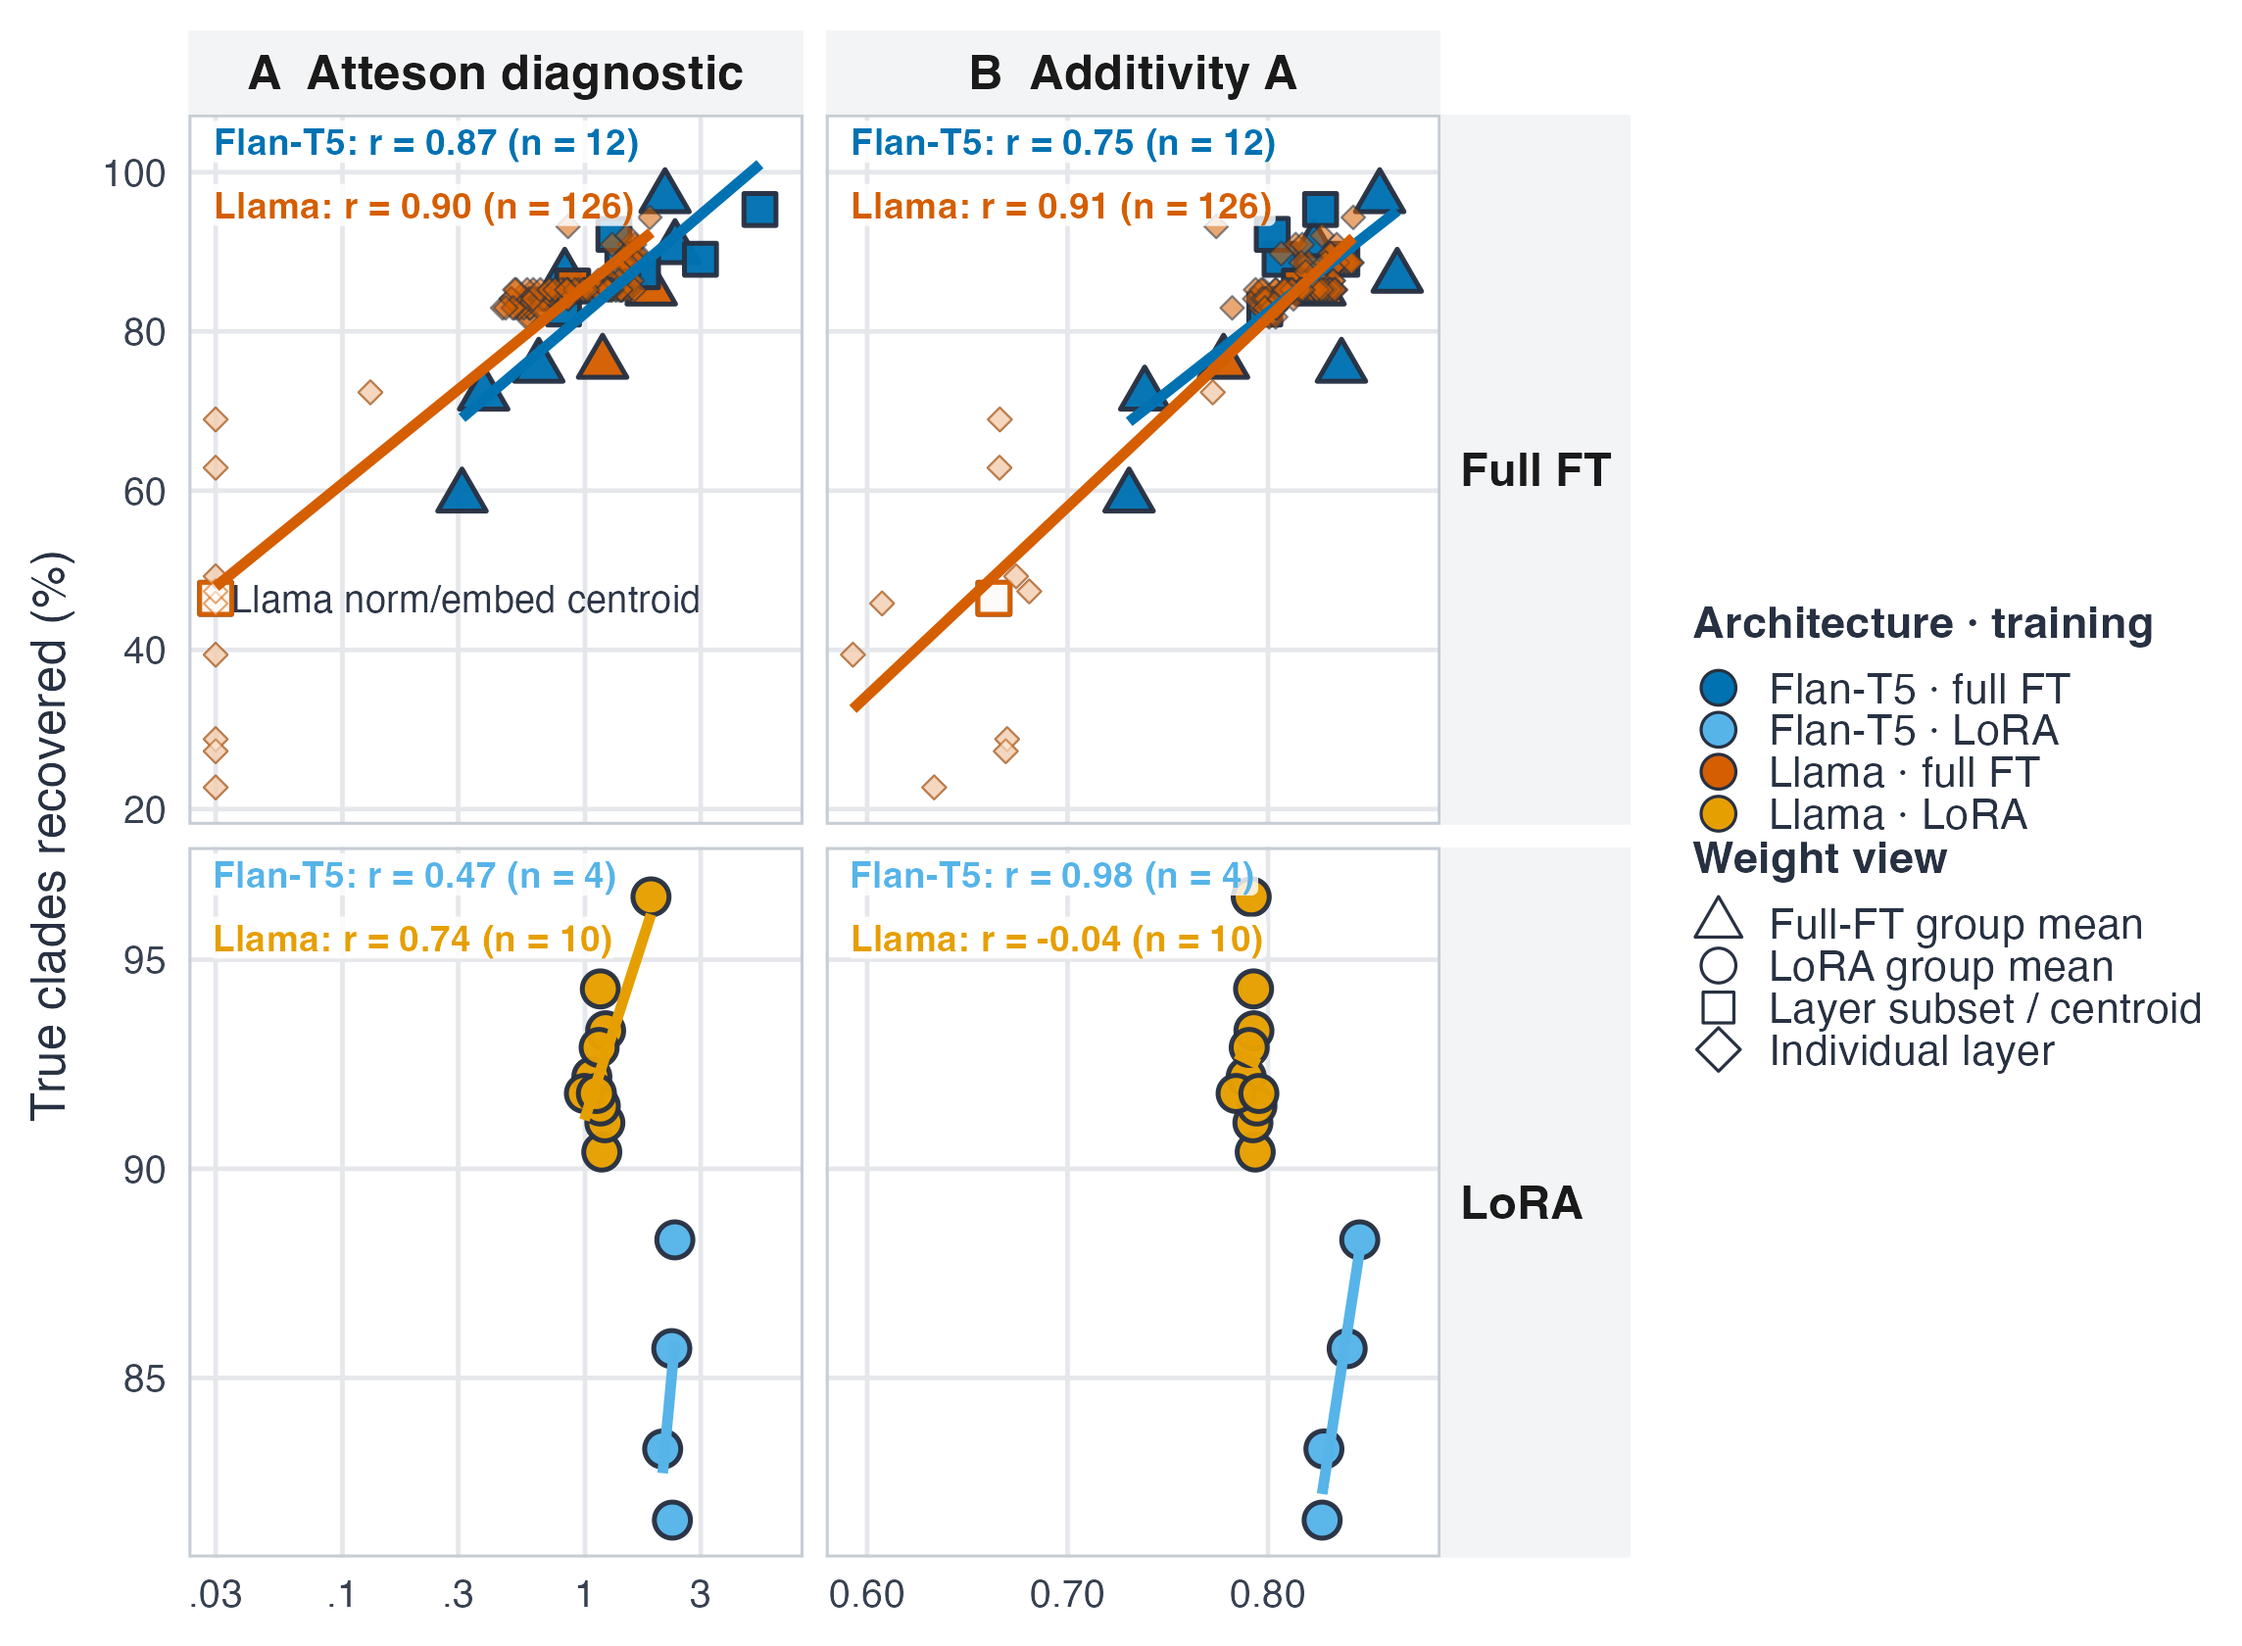
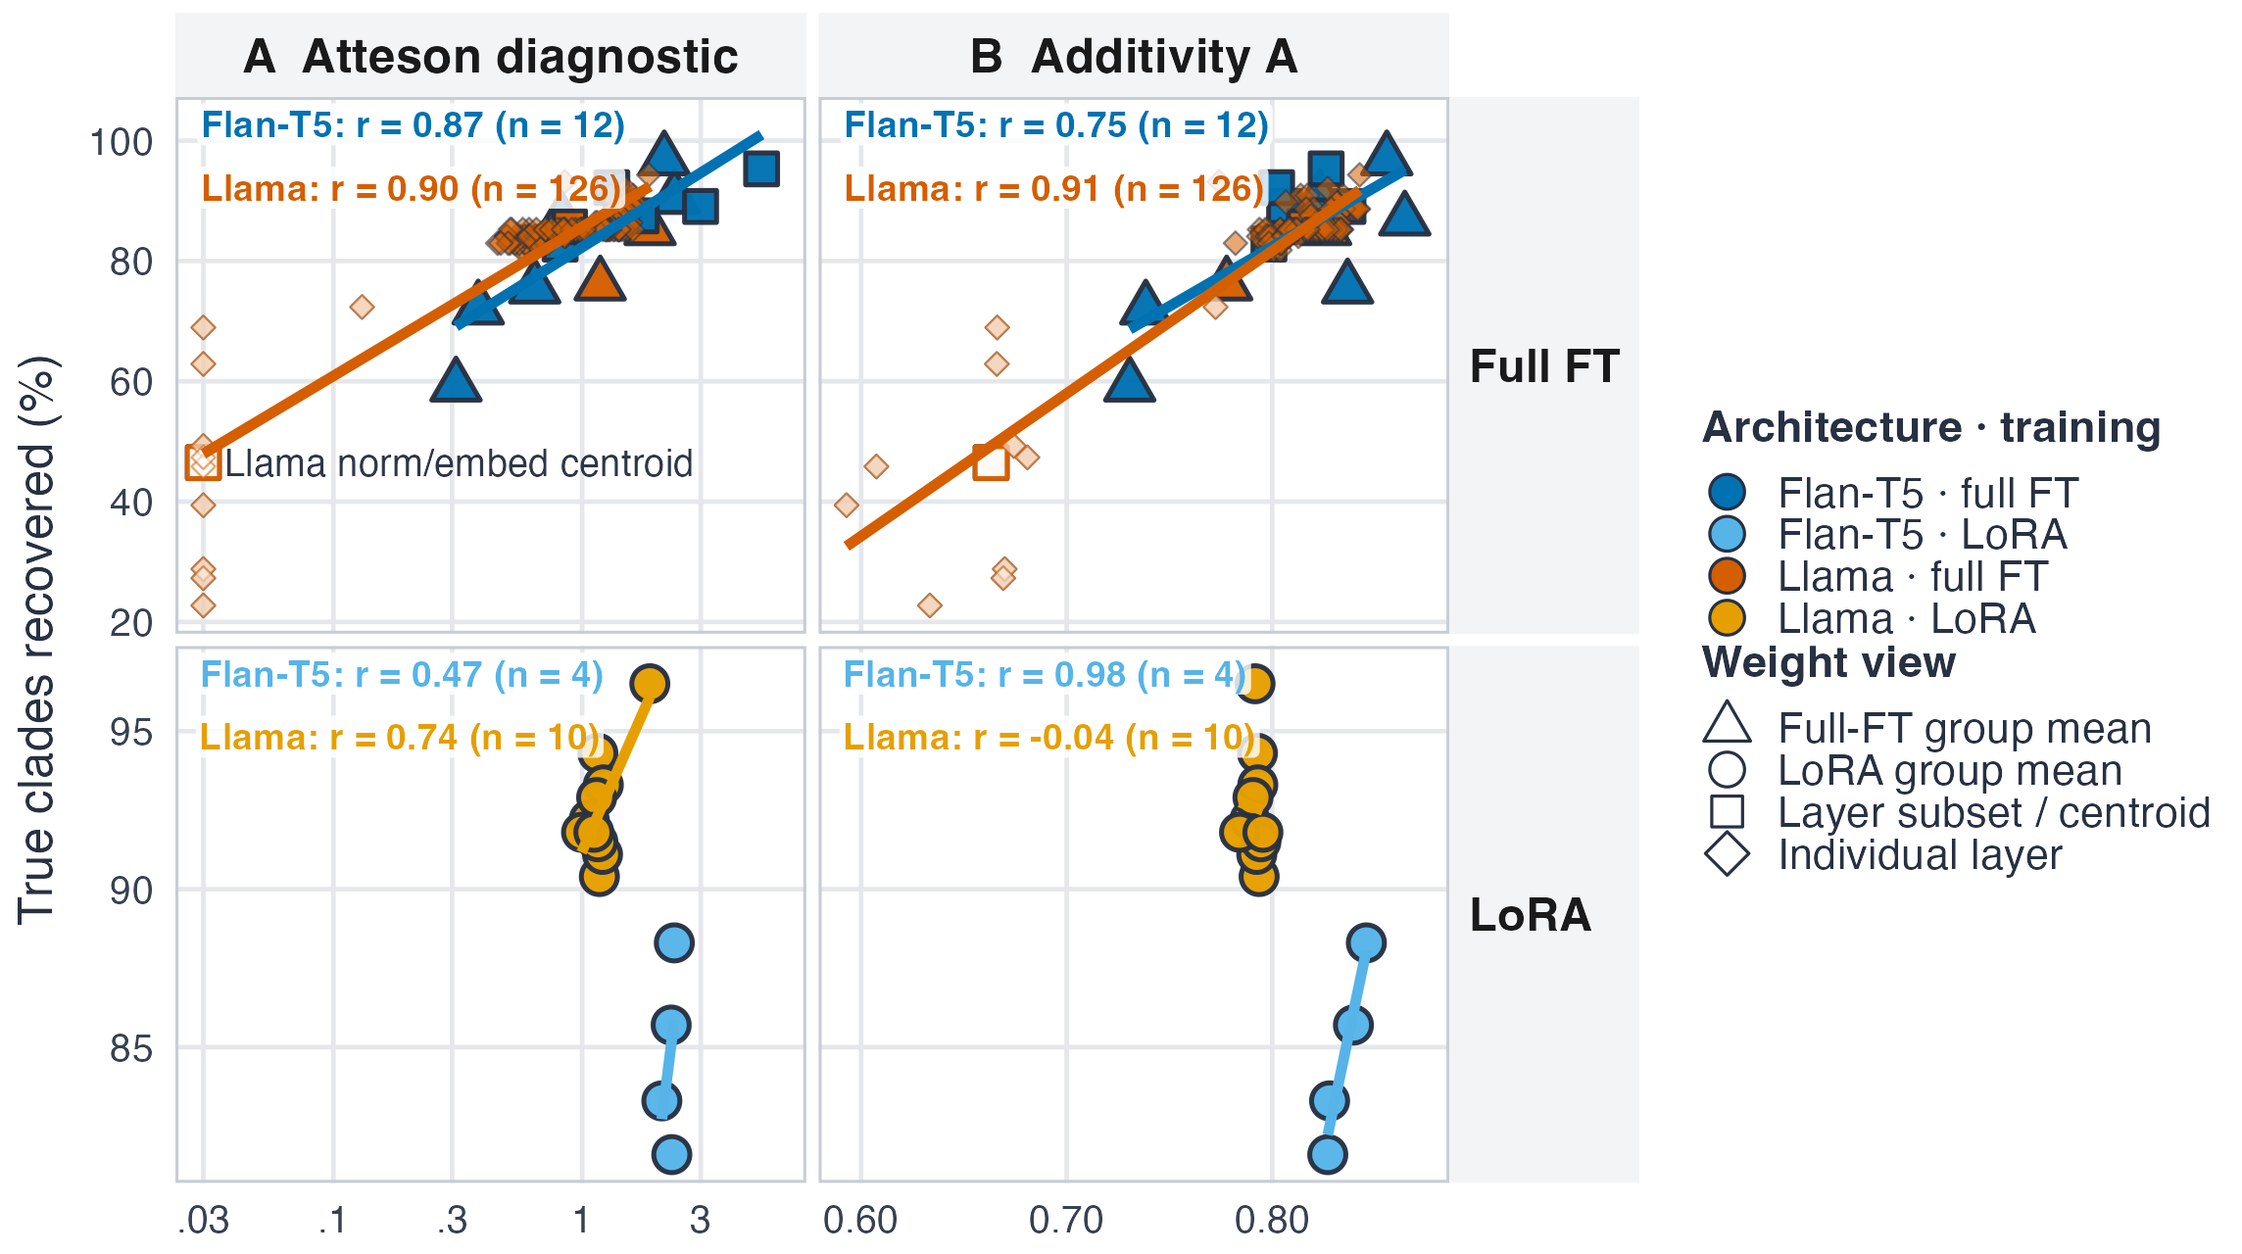
Compact diagnostics and restore results voice

diff --git a/iclr_draft_v4.tex b/iclr_draft_v4.tex
@@ -428,11 +428,11 @@ Variant & $n_{\rm rec}/n_{\rm ord}$ & \shortstack{Rank-bis.\\(SE)} & \shortstack
 
 \paragraph{Phylogeny estimation.}
 \label{sec:results:weighttree}
-Table~\ref{tab:variants} reports clade recovery, PAER ($\mathrm{FN}=0$), and RF/FN for all eligible phylogenies. In the fresh shared-tree suite, weight-based clade recovery ranges from 87--97\% and PAER from 70--91\%. For Flan, full fine-tuning is strongest on both recovery measures; for Llama, rank-64 LoRA and full fine-tuning both recover 97\% of clades and all true clades in 91\% of runs. The fresh matched behavior-only confirmation turns the same ground truth into a benchmark for another method: on the 46 trees with at least one nontrivial truth split, weights recover 95\% versus PhyloLM's 35\% under rank-8 LoRA, 97\% versus 24\% at rank 64, and 97\% versus 52\% under full fine-tuning (Table~\ref{tab:phylolm}). A separately labeled historical cohort gives the same qualitative result, including 95\% versus 56\% when translation is held out. Appendix~\ref{app:withintask} shows that phylogeny estimation also holds when every node in a tree trains within a single task (clade recovery $59$--$87\%$); in that design, task-path distances are all zero and provide no discriminating baseline.
+Our methods also estimate the phylogeny, as shown in Table~\ref{tab:variants}, with respect to clade recovery, polytomy-aware exact recovery (PAER; $\mathrm{FN}=0$), and RF/FN for all eligible phylogenies. In the fresh shared-tree suite, clade recovery ranges from 87--97\% and PAER from 70--91\%. Again, we see stronger lineage in full fine-tuning for the encoder--decoder model, whereas rank-64 LoRA and full fine-tuning both recover 97\% of clades for Llama. On the same 46 trees with a nontrivial truth split, weights recover 95\% versus PhyloLM's 35\% under rank-8 LoRA, 97\% versus 24\% at rank 64, and 97\% versus 52\% under full fine-tuning (Table~\ref{tab:phylolm}). A separately labeled historical cohort gives the same qualitative result, including 95\% versus 56\% when translation is held out. We see in Appendix~\ref{app:withintask} that phylogeny estimation still holds when every node in a tree trains within a single task (clade recovery $59$--$87\%$); in that design, task-path distances are all zero and provide no discriminating baseline.
 
 Treating layers as gene-like estimators reveals that query/key/value attention weights, and especially the key weights, can estimate the phylogeny as well as the all-layer aggregate in the full-fine-tuning regime. On the same 47 Flan runs, the encoder self-attention key subset recovers 95.7\% (SE 2.1\%) of clades versus 90.4\% (SE 3.6\%) using all weights; PAER is 91.5\% versus 85.1\% (App.~\ref{app:layers}). This subset contains 7.08M of 247.58M scalar weights (2.86\%, approximately 3\%). Layer importance differs by architecture (App.~\ref{app:layertrace}): signal is more concentrated in key weights for the encoder--decoder model and more diffuse across key weights in the decoder-only model.
 
-Finally, the fitted Atteson diagnostic $\widetilde m$ and additivity proxy $A$ are associated with clade recovery across settings, datasets, layers, and models (Fig.~\ref{fig:coherence_recovery}). Architecture is essential to interpreting this comparison: pooling the 31 non-organic summary points (including the single Pythia reference omitted from the faceted figure) gives $\rho=0.04$ for $A$, but this mixes architecture-specific scales and conceals strong within-architecture structure. Across the 112 Llama attention/MLP layer summaries, $A$ tracks recovery with $\rho=0.73$; across the four Flan LoRA scopes the ordering is perfectly monotone ($\rho=1.00$, descriptive given $n=4$). The ten Llama LoRA scopes instead occupy a very narrow $A$ interval (0.784--0.795) and are essentially flat (Pearson's $r=-0.04$). Pooling the Flan and Llama LoRA points produces an apparent negative association ($\rho=-0.70$) because Llama has lower $A$ but higher recovery; after centering within architecture, the Pearson association is positive ($r=0.56$). We therefore interpret $A$ as an architecture-conditional, label-free diagnostic rather than a cross-architecture calibrated score. For $\widetilde m$, the 31-point pooled association is $\rho=0.40$ (Pearson's $r=0.81$ on $\log_{10}\max(\widetilde m,0.03)$). All nine Llama norm-layer summaries have a zero minimum fitted edge and are displayed at the common $0.03$ plotting floor; the embed/head summary is 0.13, whereas attention/MLP layer summaries span 0.46--1.85. We use both quantities as descriptive diagnostics, not as guarantees of recovery.
+Finally, we see that the fitted Atteson diagnostic $\widetilde m$ and additivity proxy $A$ both guide phylogeny estimation, specifically clade recovery. Figure~\ref{fig:coherence_recovery} reports both quantities across fine-tuning regimes, models, datasets, and layers. In full fine-tuning, the Pearson correlations for $\widetilde m$ and $A$ are 0.87 and 0.75 for Flan and 0.90 and 0.91 for Llama, respectively. Under LoRA, they are 0.47 and 0.98 for Flan and 0.74 and $-0.04$ for Llama. We see that the norm layers have the worst recovery, along with low margins and additivities. While the Atteson condition is a hard boundary of sufficiency in theory, our noisy distance estimates show a more gradual relationship between $\widetilde m$ and clade recovery. The label-free $A$ also tracks recovery within most architecture--training groups; the exception is Llama LoRA, whose ten points occupy the narrow interval 0.784--0.795. We use both quantities as descriptive diagnostics rather than guarantees of recovery.
 
 \begin{figure}[t]
   \begin{center}
